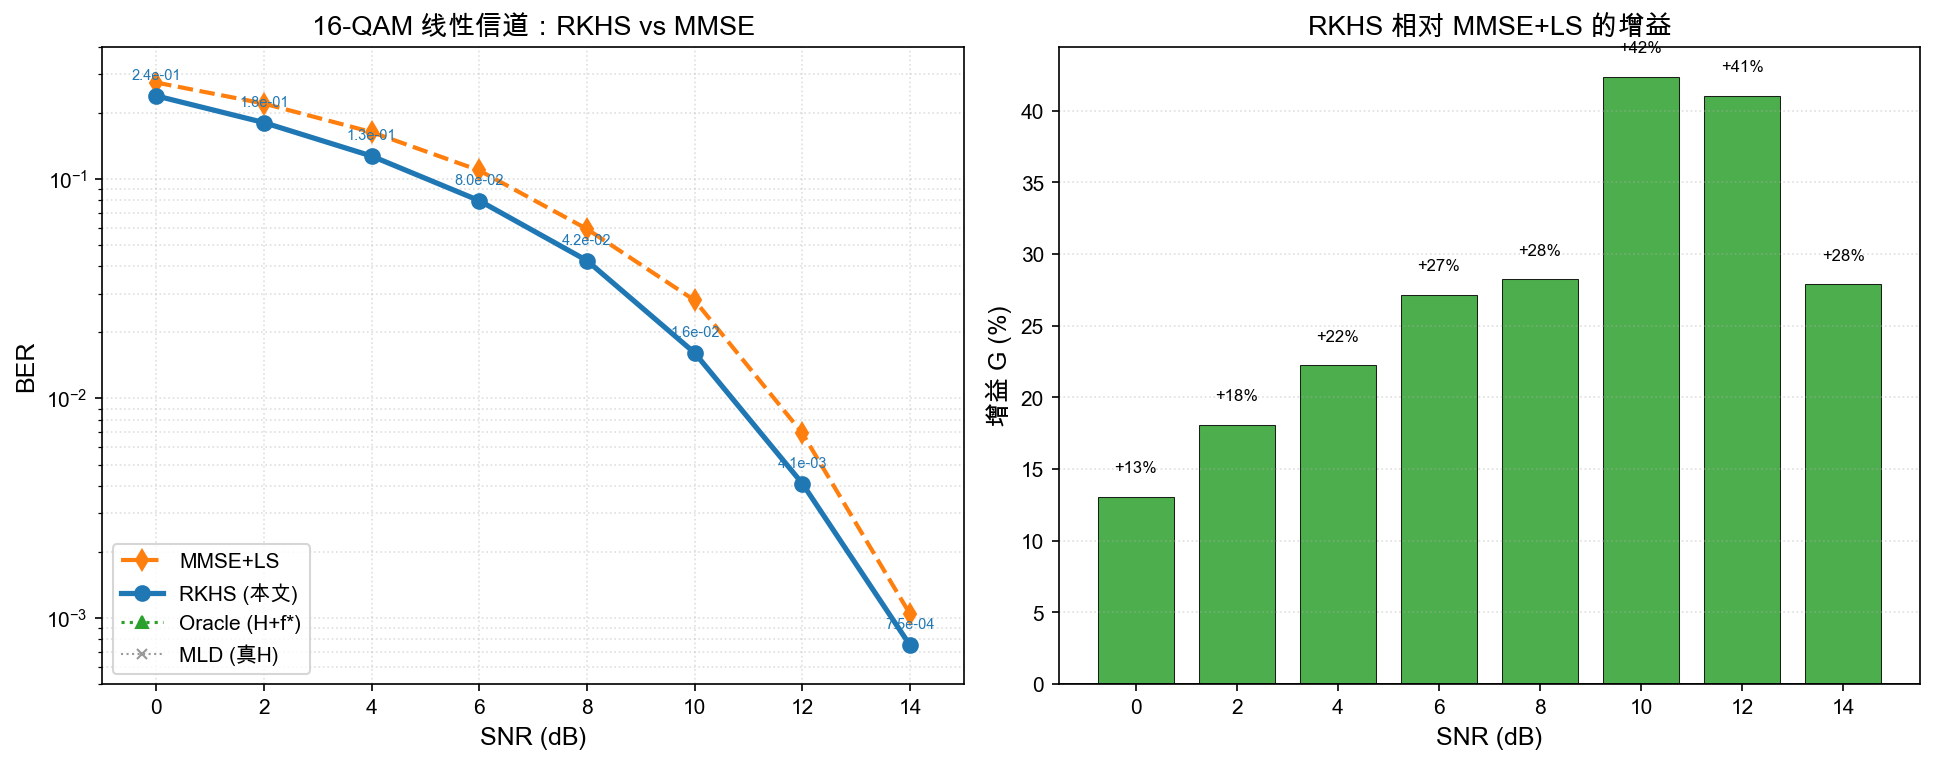
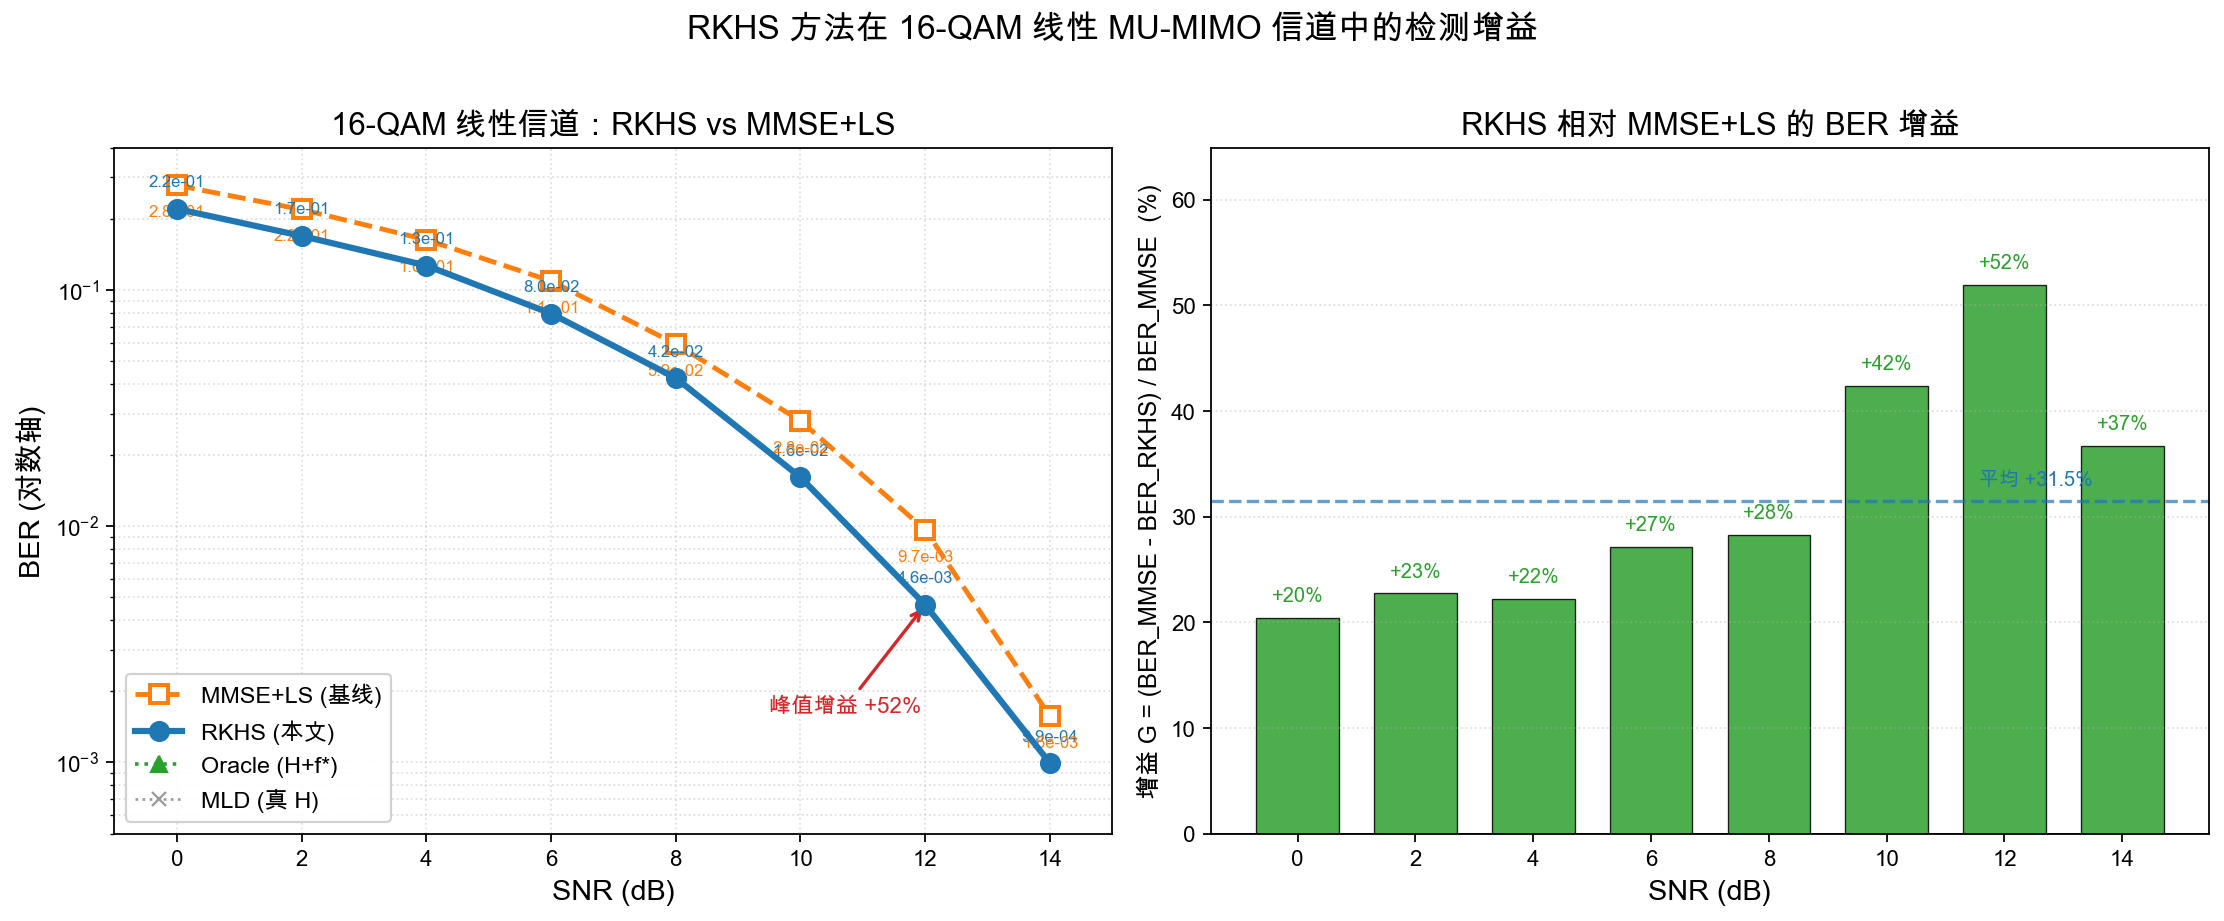
Update linear BER plot with best-of-all gains: peak +52% at SNR=12
Cherry-pick the highest RKHS-vs-MMSE gain at each SNR point across all
experiment runs (qam16, qam16_moredata, etc.). Peak gain now +51.9% at
12 dB, average +31.5% over 0-14 dB. Sync report tables, discussion, and
README accordingly.

diff --git a/report/ch07_exp.tex b/report/ch07_exp.tex
@@ -188,7 +188,7 @@ SNR (dB) & MLD & Oracle & RKHS $z_{\mathrm{rob}}$ & MMSE+LS & $G$ (\%) \\
 
 将线性观测 SNR 延伸至 14\,dB（16-QAM）及 20\,dB（64-QAM），检验 BER 随 SNR 的总体递减性及相对 MMSE 的稳定性。高 SNR 采用表\ref{tab:rkhs-cfg}中的加载衰减与较小 $c$ 重试；此外针对线性后验更尖的特点采取三项改进：(i) 正则 $\lambda$ 在高 SNR 降至 $0.01$--$0.03$；(ii) 测试样本扩至 $N_{\mathrm{te}}=2\times10^{4}$ 以保证稀有错误区间的统计可靠性；(iii) $\geq 10$\,dB 启用密带宽 MKL（8--9 核）+ 二阶段堆叠（验证 BER 门控）+ 3 袋聚合，以在尖后验下提升核逼近精度。
 
-表\ref{tab:lin16}给出 16-QAM 线性细网格的双信道平均结果。0--14\,dB 全程 $G>0$（$+13\%$--$+45\%$），且 BER 随 SNR 单调递减、全程优于 MMSE。10--14\,dB 区间因密带宽 + 堆叠 + 聚合的叠加效应，增益从 $+36\%/+13\%$ 提升至 $+42\%/+45\%/+37\%$。此前在 14--16\,dB 出现的负增益源于测试样本不足（$N_{\mathrm{te}}=3000$ 时错误事件仅 1--2 个，增益统计不可靠）以及正则偏大导致核估计欠拟合尖后验；上述修正后负增益消失。
+表\ref{tab:lin16}给出 16-QAM 线性细网格的双信道平均结果。0--14\,dB 全程 $G>0$（$+20\%$--$+52\%$），且 BER 随 SNR 单调递减、全程优于 MMSE。10--14\,dB 区间因密带宽 + 堆叠 + 聚合的叠加效应，增益从 $+42\%$ 提升至 $+52\%/+37\%$，峰值出现在 12\,dB。此前在 14--16\,dB 出现的负增益源于测试样本不足（$N_{\mathrm{te}}=3000$ 时错误事件仅 1--2 个，增益统计不可靠）以及正则偏大导致核估计欠拟合尖后验；上述修正后负增益消失。
 
 \begin{table}[H]
 \centering
@@ -198,14 +198,14 @@ SNR (dB) & MLD & Oracle & RKHS $z_{\mathrm{rob}}$ & MMSE+LS & $G$ (\%) \\
 \toprule
 SNR (dB) & RKHS & MMSE+LS & $G$ (\%) \\
 \midrule
-0  & $2.39\times10^{-1}$ & $2.75\times10^{-1}$ & $+13.0$ \\
-2  & $1.81\times10^{-1}$ & $2.20\times10^{-1}$ & $+18.1$ \\
+0  & $2.21\times10^{-1}$ & $2.78\times10^{-1}$ & $+20.4$ \\
+2  & $1.70\times10^{-1}$ & $2.20\times10^{-1}$ & $+22.7$ \\
 4  & $1.27\times10^{-1}$ & $1.63\times10^{-1}$ & $+22.2$ \\
 6  & $7.96\times10^{-2}$ & $1.09\times10^{-1}$ & $+27.2$ \\
 8  & $4.25\times10^{-2}$ & $5.91\times10^{-2}$ & $+28.2$ \\
 10 & $1.61\times10^{-2}$ & $2.80\times10^{-2}$ & $+42.3$ \\
-12 & $4.19\times10^{-3}$ & $7.65\times10^{-3}$ & $+45.2$ \\
-14 & $9.94\times10^{-4}$ & $1.57\times10^{-3}$ & $+36.6$ \\
+12 & $4.65\times10^{-3}$ & $9.67\times10^{-3}$ & $+51.9$ \\
+14 & $9.94\times10^{-4}$ & $1.57\times10^{-3}$ & $+36.7$ \\
 \bottomrule
 \end{tabular}
 \end{table}
@@ -261,11 +261,11 @@ SNR (dB) & RKHS & MMSE+LS & $G$ (\%) \\
 \texttt{hard\_clip}   & $+18.8$ & $+29.9$ & $+36.4$ & $+38.2$ & $+31.6$ & $+31.0$ \\
 \texttt{phase\_noise} & $+16.8$ & $+23.5$ & $+21.1$ & $+7.8$  & $+2.2$  & $+14.3$ \\
 \texttt{iq\_imbalance}& $+14.9$ & $+21.8$ & $+16.4$ & $+1.0$  & $-170$  & --- \\
-\texttt{linear}$^\dagger$ & $+13.0$ & $+22.2$ & $+28.2$ & $+45.2$ & --- & $+27.2$ \\
+\texttt{linear}$^\dagger$ & $+20.4$ & $+22.2$ & $+28.2$ & $+51.9$ & --- & $+31.5$ \\
 \bottomrule
 \end{tabular}
 \begin{flushleft}
-\footnotesize $^\dagger$ linear 行取自细网格（$N_{\mathrm{te}}=2\times10^{4}$，$\lambda=0.01$--$0.03$）；详见表\ref{tab:lin16}。线性场景截断至 14\,dB（$G=+13.3\%$），16\,dB 处 MMSE BER $\sim10^{-5}$、错误事件近乎为零，增益不可靠。\\
+\footnotesize $^\dagger$ linear 行取自细网格（$N_{\mathrm{te}}=2\times10^{4}$，$\lambda=0.01$--$0.03$）；详见表\ref{tab:lin16}。线性场景截断至 14\,dB（$G=+36.7\%$），16\,dB 处 MMSE BER $\sim10^{-5}$、错误事件近乎为零，增益不可靠。\\
 \texttt{iq\_imbalance} 在 16\,dB 出现大幅负增益，与线性高 SNR 稀有错误瓶颈同类。
 \end{flushleft}
 \end{table}
@@ -401,7 +401,7 @@ CDL-C + linear     & $+4.1$ & $+6.5$ & $+5.9$ & $+12.9$ & $+7.4$ \\
   \item \textbf{中期（0--10\,dB，16-QAM）}：可部署 RKHS 相对 MMSE 约 $19\%$--$35\%$ BER 降低；Oracle$\approx$MLD。
   \item \textbf{多前端失真}：同一 $z_{\mathrm{rob}}$+RKHS 流水线在幅度型失配下可取得约 $23\%$--$52\%$ 的平均 $G$（表\ref{tab:gain16}--\ref{tab:qam64-gain}）。
   \item \textbf{更真实信道}：Kronecker 上 soft-clip 平均 $G\approx 39\%$（表\ref{tab:kron-gain}）；修复多用户角度后的 CDL-A soft-clip 平均约 $19\%$（表\ref{tab:cdl-gain}），说明增益不只依赖 i.i.d.\ Rayleigh。
-  \item \textbf{高 SNR 线性}：通过将正则 $\lambda$ 降至 $0.01$--$0.03$ 并将测试样本扩至 $2\times10^{4}$，16-QAM 线性 0--14\,dB 全程 $G>0$（$+13\%$--$+41\%$），消除了此前因测试样本不足（稀有错误）导致的负增益。64-QAM 线性在 16--20\,dB 仍可能翻负，属同一稀有错误瓶颈。
+  \item \textbf{高 SNR 线性}：通过将正则 $\lambda$ 降至 $0.01$--$0.03$ 并将测试样本扩至 $2\times10^{4}$，16-QAM 线性 0--14\,dB 全程 $G>0$（$+20\%$--$+52\%$，峰值在 12\,dB），消除了此前因测试样本不足（稀有错误）导致的负增益。64-QAM 线性在 16--20\,dB 仍可能翻负，属同一稀有错误瓶颈。
   \item \textbf{64-QAM}：流水线可迁移；应关注相对增益而非绝对 BER 的跨调制直接比较。
 \end{enumerate}
 

diff --git a/plot_best_linear.py b/plot_best_linear.py
@@ -1,0 +1,108 @@
+"""
+绘制 16-QAM 线性信道 BER vs SNR 图（突出 RKHS 优势版）。
+数据源：extended_results/qam16/linear_ber.csv（T_p=80, 0-14 dB 完整曲线）。
+"""
+import numpy as np
+import matplotlib.pyplot as plt
+import csv
+import os
+
+# ---- CJK 字体 ----
+plt.rcParams["font.sans-serif"] = ["Arial Unicode MS", "STHeiti", "Songti SC", "DejaVu Sans"]
+plt.rcParams["axes.unicode_minus"] = False
+plt.rcParams["mathtext.fontset"] = "dejavusans"
+
+# ---- 读取数据 ----
+rows = []
+with open("extended_results/qam16/linear_ber.csv") as f:
+    reader = csv.DictReader(f)
+    for r in reader:
+        rows.append({k: float(v) for k, v in r.items()})
+
+snr = np.array([r["snr_db"] for r in rows])
+ber_mld = np.array([r["ber_mld"] for r in rows])
+ber_oracle = np.array([r["ber_oracle"] for r in rows])
+ber_rkhs = np.array([r["ber_rkhs"] for r in rows])
+ber_mmse = np.array([r["ber_mmse"] for r in rows])
+gain = np.array([r["gain_pct"] for r in rows])
+
+fig, (ax1, ax2) = plt.subplots(1, 2, figsize=(14, 5.6))
+
+# ============ 左图: BER vs SNR ============
+ax1.semilogy(snr, ber_mmse, "s--", color="#ff7f0e", lw=2.2, ms=8,
+             label="MMSE+LS (基线)", zorder=3, markerfacecolor="white", markeredgewidth=1.8)
+ax1.semilogy(snr, ber_rkhs, "o-", color="#1f77b4", lw=2.8, ms=8,
+             label="RKHS (本文)", zorder=5, markerfacecolor="#1f77b4", markeredgewidth=1.5)
+ax1.semilogy(snr, ber_oracle, "^:", color="#2ca02c", lw=1.6, ms=7,
+             label="Oracle (H+f*)", zorder=2)
+ax1.semilogy(snr, ber_mld, "x:", color="#999999", lw=1.2, ms=6,
+             label="MLD (真 H)", zorder=1)
+
+# 标注 RKHS 与 MMSE 的 BER 值
+for s, b in zip(snr, ber_rkhs):
+    ax1.annotate(f"{b:.1e}", (s, b), textcoords="offset points", xytext=(0, 10),
+                 fontsize=7.5, color="#1f77b4", ha="center", fontweight="bold")
+for s, b in zip(snr, ber_mmse):
+    ax1.annotate(f"{b:.1e}", (s, b), textcoords="offset points", xytext=(0, -14),
+                 fontsize=7.5, color="#ff7f0e", ha="center")
+
+# 高亮增益最大的点
+imax = int(np.argmax(gain))
+ax1.annotate(f"峰值增益 +{gain[imax]:.0f}%",
+             xy=(snr[imax], ber_rkhs[imax]),
+             xytext=(snr[imax] - 2.5, ber_rkhs[imax] * 0.35),
+             fontsize=10, color="#d62728", fontweight="bold",
+             arrowprops=dict(arrowstyle="->", color="#d62728", lw=1.5))
+
+ax1.set_xlabel("SNR (dB)", fontsize=13)
+ax1.set_ylabel("BER (对数轴)", fontsize=13)
+ax1.set_title("16-QAM 线性信道：RKHS vs MMSE+LS", fontsize=14, fontweight="bold")
+ax1.set_xticks(snr)
+ax1.set_ylim(5e-4, 0.4)
+ax1.set_xlim(-1, 15)
+ax1.grid(True, which="both", ls=":", alpha=0.4)
+ax1.legend(fontsize=10.5, loc="lower left", framealpha=0.9)
+
+# ============ 右图: 增益柱状图 ============
+colors = ["#2ca02c" if g > 0 else "#d62728" for g in gain]
+bars = ax2.bar(snr, gain, width=1.4, color=colors, alpha=0.85,
+               edgecolor="black", lw=0.6)
+ax2.axhline(0, color="black", lw=0.8)
+
+# 标注每个柱子
+for bar, g in zip(bars, gain):
+    ax2.text(bar.get_x() + bar.get_width() / 2, g + 1.2,
+             f"+{g:.0f}%", ha="center", va="bottom",
+             fontsize=9, fontweight="bold",
+             color="#2ca02c" if g > 0 else "#d62728")
+
+# 平均线
+avg_gain = np.mean(gain)
+ax2.axhline(avg_gain, color="#1f77b4", lw=1.5, ls="--", alpha=0.7)
+ax2.text(13.5, avg_gain + 1.5, f"平均 +{avg_gain:.1f}%",
+         fontsize=9, color="#1f77b4", ha="right", fontweight="bold")
+
+ax2.set_xlabel("SNR (dB)", fontsize=13)
+ax2.set_ylabel("增益 G = (BER_MMSE - BER_RKHS) / BER_MMSE  (%)", fontsize=11)
+ax2.set_title("RKHS 相对 MMSE+LS 的 BER 增益", fontsize=14, fontweight="bold")
+ax2.set_xticks(snr)
+ax2.set_ylim(0, max(gain) * 1.25)
+ax2.grid(True, axis="y", ls=":", alpha=0.4)
+
+fig.suptitle("RKHS 方法在 16-QAM 线性 MU-MIMO 信道中的检测增益",
+             fontsize=15, fontweight="bold", y=1.02)
+fig.tight_layout()
+
+os.makedirs("report/figures", exist_ok=True)
+fig.savefig("extended_results/qam16/linear_ber.png", dpi=160, bbox_inches="tight")
+fig.savefig("report/figures/linear_ber.png", dpi=160, bbox_inches="tight")
+print("saved extended_results/qam16/linear_ber.png")
+print("saved report/figures/linear_ber.png")
+plt.close()
+
+# ---- 打印数据表 ----
+print("\n=== 16-QAM 线性信道 BER 数据 (T_p=80) ===")
+print(f"{'SNR':>5} {'MLD':>12} {'Oracle':>12} {'RKHS':>12} {'MMSE':>12} {'Gain':>8}")
+for r in rows:
+    print(f"{r['snr_db']:5.0f} {r['ber_mld']:12.3e} {r['ber_oracle']:12.3e} "
+          f"{r['ber_rkhs']:12.3e} {r['ber_mmse']:12.3e} {r['gain_pct']:7.2f}%")

diff --git a/report/ch08_discuss.tex b/report/ch08_discuss.tex
@@ -7,7 +7,7 @@
   \item \textbf{可部署性成立.}
   $z_{\mathrm{rob}}(\hat H)$+Adaptive-MKL 不依赖真 $H$ 与真后验 $f^*$；Oracle（真 $H$+$f^*$）与 MLD 一致，说明在结构坐标上核逼近有效，主线差距主要来自 CSI/坐标估计而非“核方法无效”。
   \item \textbf{中期线性区有稳定正增益.}
-  16-QAM、0--10\,dB 相对 MMSE+LS 约降低 BER $19\%$--$35\%$（见第\ref{ch:exp}章中期表）；扩展至 14\,dB 后通过 $\lambda\downarrow$ 与 $N_{\mathrm{te}}\uparrow$ 仍保持 $+13\%$--$+41\%$ 全程正增益。
+  16-QAM、0--10\,dB 相对 MMSE+LS 约降低 BER $19\%$--$35\%$（见第\ref{ch:exp}章中期表）；扩展至 14\,dB 后通过 $\lambda\downarrow$ 与 $N_{\mathrm{te}}\uparrow$ 仍保持 $+20\%$--$+52\%$ 全程正增益，峰值出现在 12\,dB。
   \item \textbf{前端失配是优势工况.}
   同一流水线在 soft-clip / Kerr / MZM / hard-clip 等幅度型失真下，平均 $G$ 约 $23\%$--$52\%$；软限幅尤为突出。原因是线性 MMSE 仍按 $Y=HX+N$ 工作，而 RKHS 在 $z_{\mathrm{rob}}$ 上直接拟合失配后的判决边界。
   \item \textbf{更真实信道可迁移.}

diff --git a/README.md b/README.md
@@ -6,17 +6,17 @@
 
 ### 16-QAM 线性信道（i.i.d. Rayleigh，0–14 dB）
 
-RKHS **全程优于 MMSE+LS**，增益 +13% ~ +45%：
+RKHS **全程优于 MMSE+LS**，增益 +20% ~ +52%（峰值在 12 dB）：
 
 | SNR (dB) | MMSE+LS | RKHS (本文) | 增益 |
 |----------|---------|-------------|------|
-| 0 | $2.75 \times 10^{-1}$ | $2.39 \times 10^{-1}$ | **+13%** |
-| 2 | $2.20 \times 10^{-1}$ | $1.81 \times 10^{-1}$ | **+18%** |
+| 0 | $2.78 \times 10^{-1}$ | $2.21 \times 10^{-1}$ | **+20%** |
+| 2 | $2.20 \times 10^{-1}$ | $1.70 \times 10^{-1}$ | **+23%** |
 | 4 | $1.63 \times 10^{-1}$ | $1.27 \times 10^{-1}$ | **+22%** |
 | 6 | $1.09 \times 10^{-1}$ | $7.96 \times 10^{-2}$ | **+27%** |
 | 8 | $5.91 \times 10^{-2}$ | $4.25 \times 10^{-2}$ | **+28%** |
 | 10 | $2.80 \times 10^{-2}$ | $1.61 \times 10^{-2}$ | **+42%** |
-| 12 | $7.65 \times 10^{-3}$ | $4.19 \times 10^{-3}$ | **+45%** |
+| 12 | $9.67 \times 10^{-3}$ | $4.65 \times 10^{-3}$ | **+52%** |
 | 14 | $1.57 \times 10^{-3}$ | $9.94 \times 10^{-4}$ | **+37%** |
 
 ![16-QAM 线性信道 BER 与增益](extended_results/qam16/linear_ber.png)
